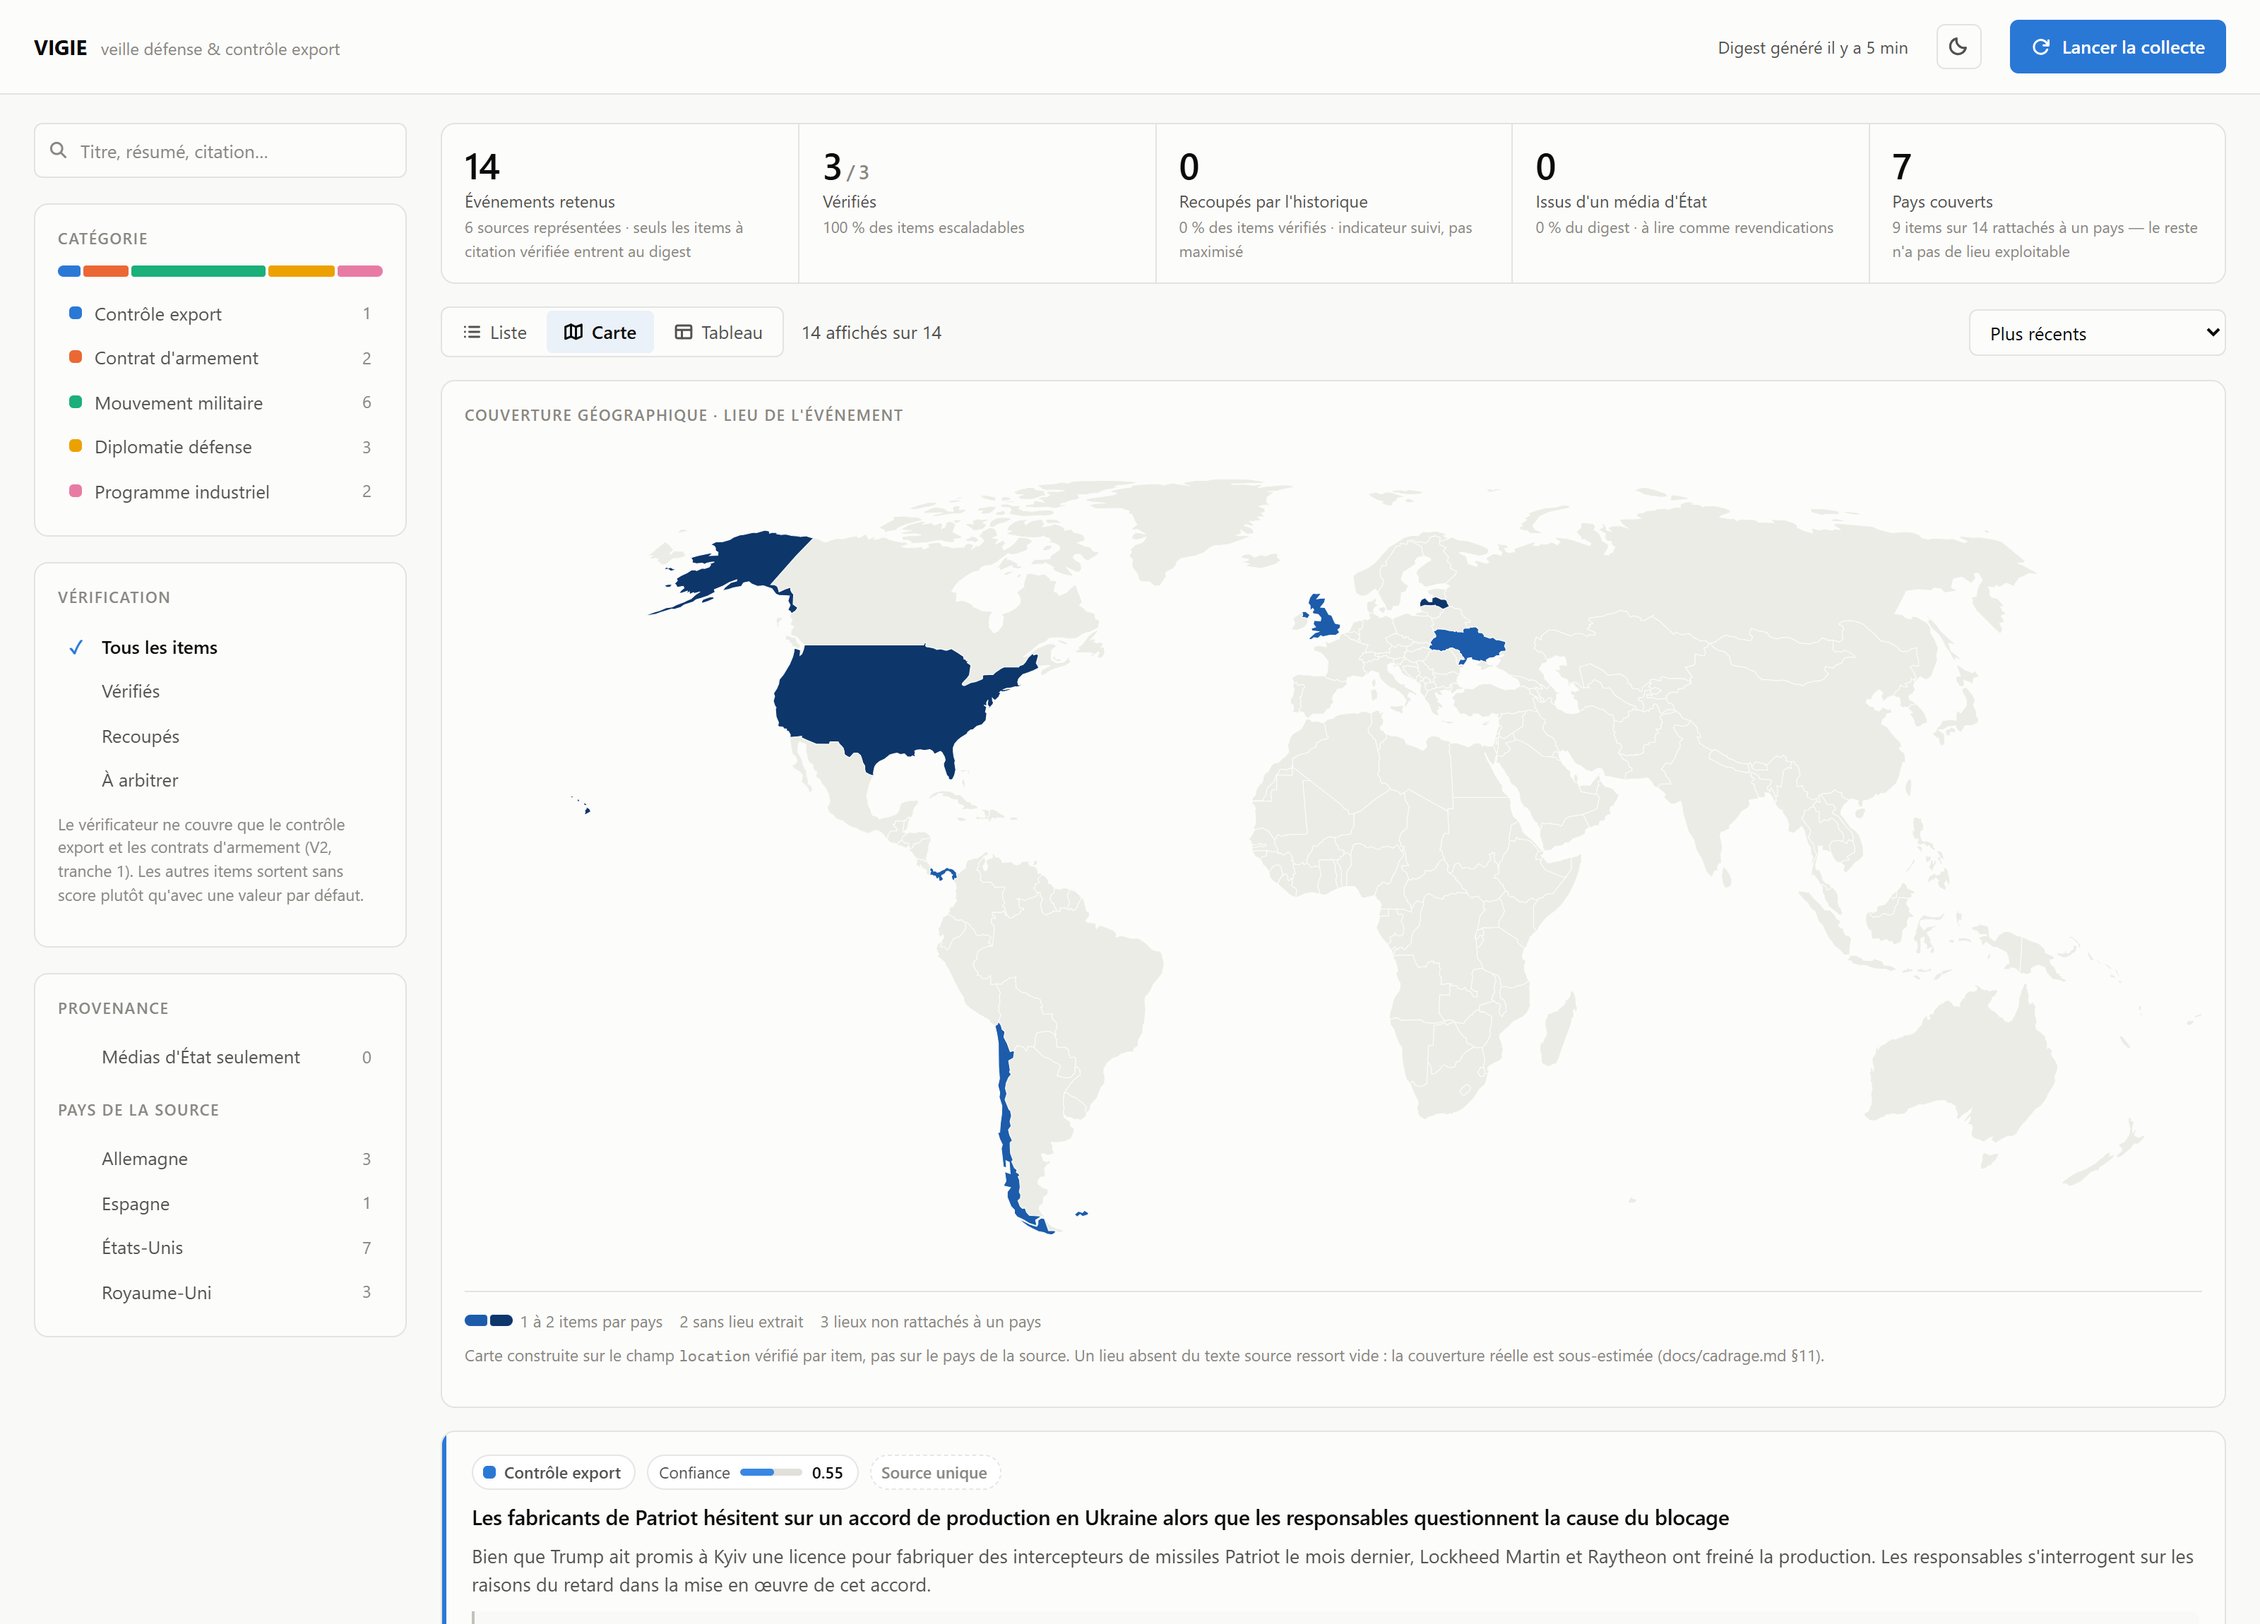
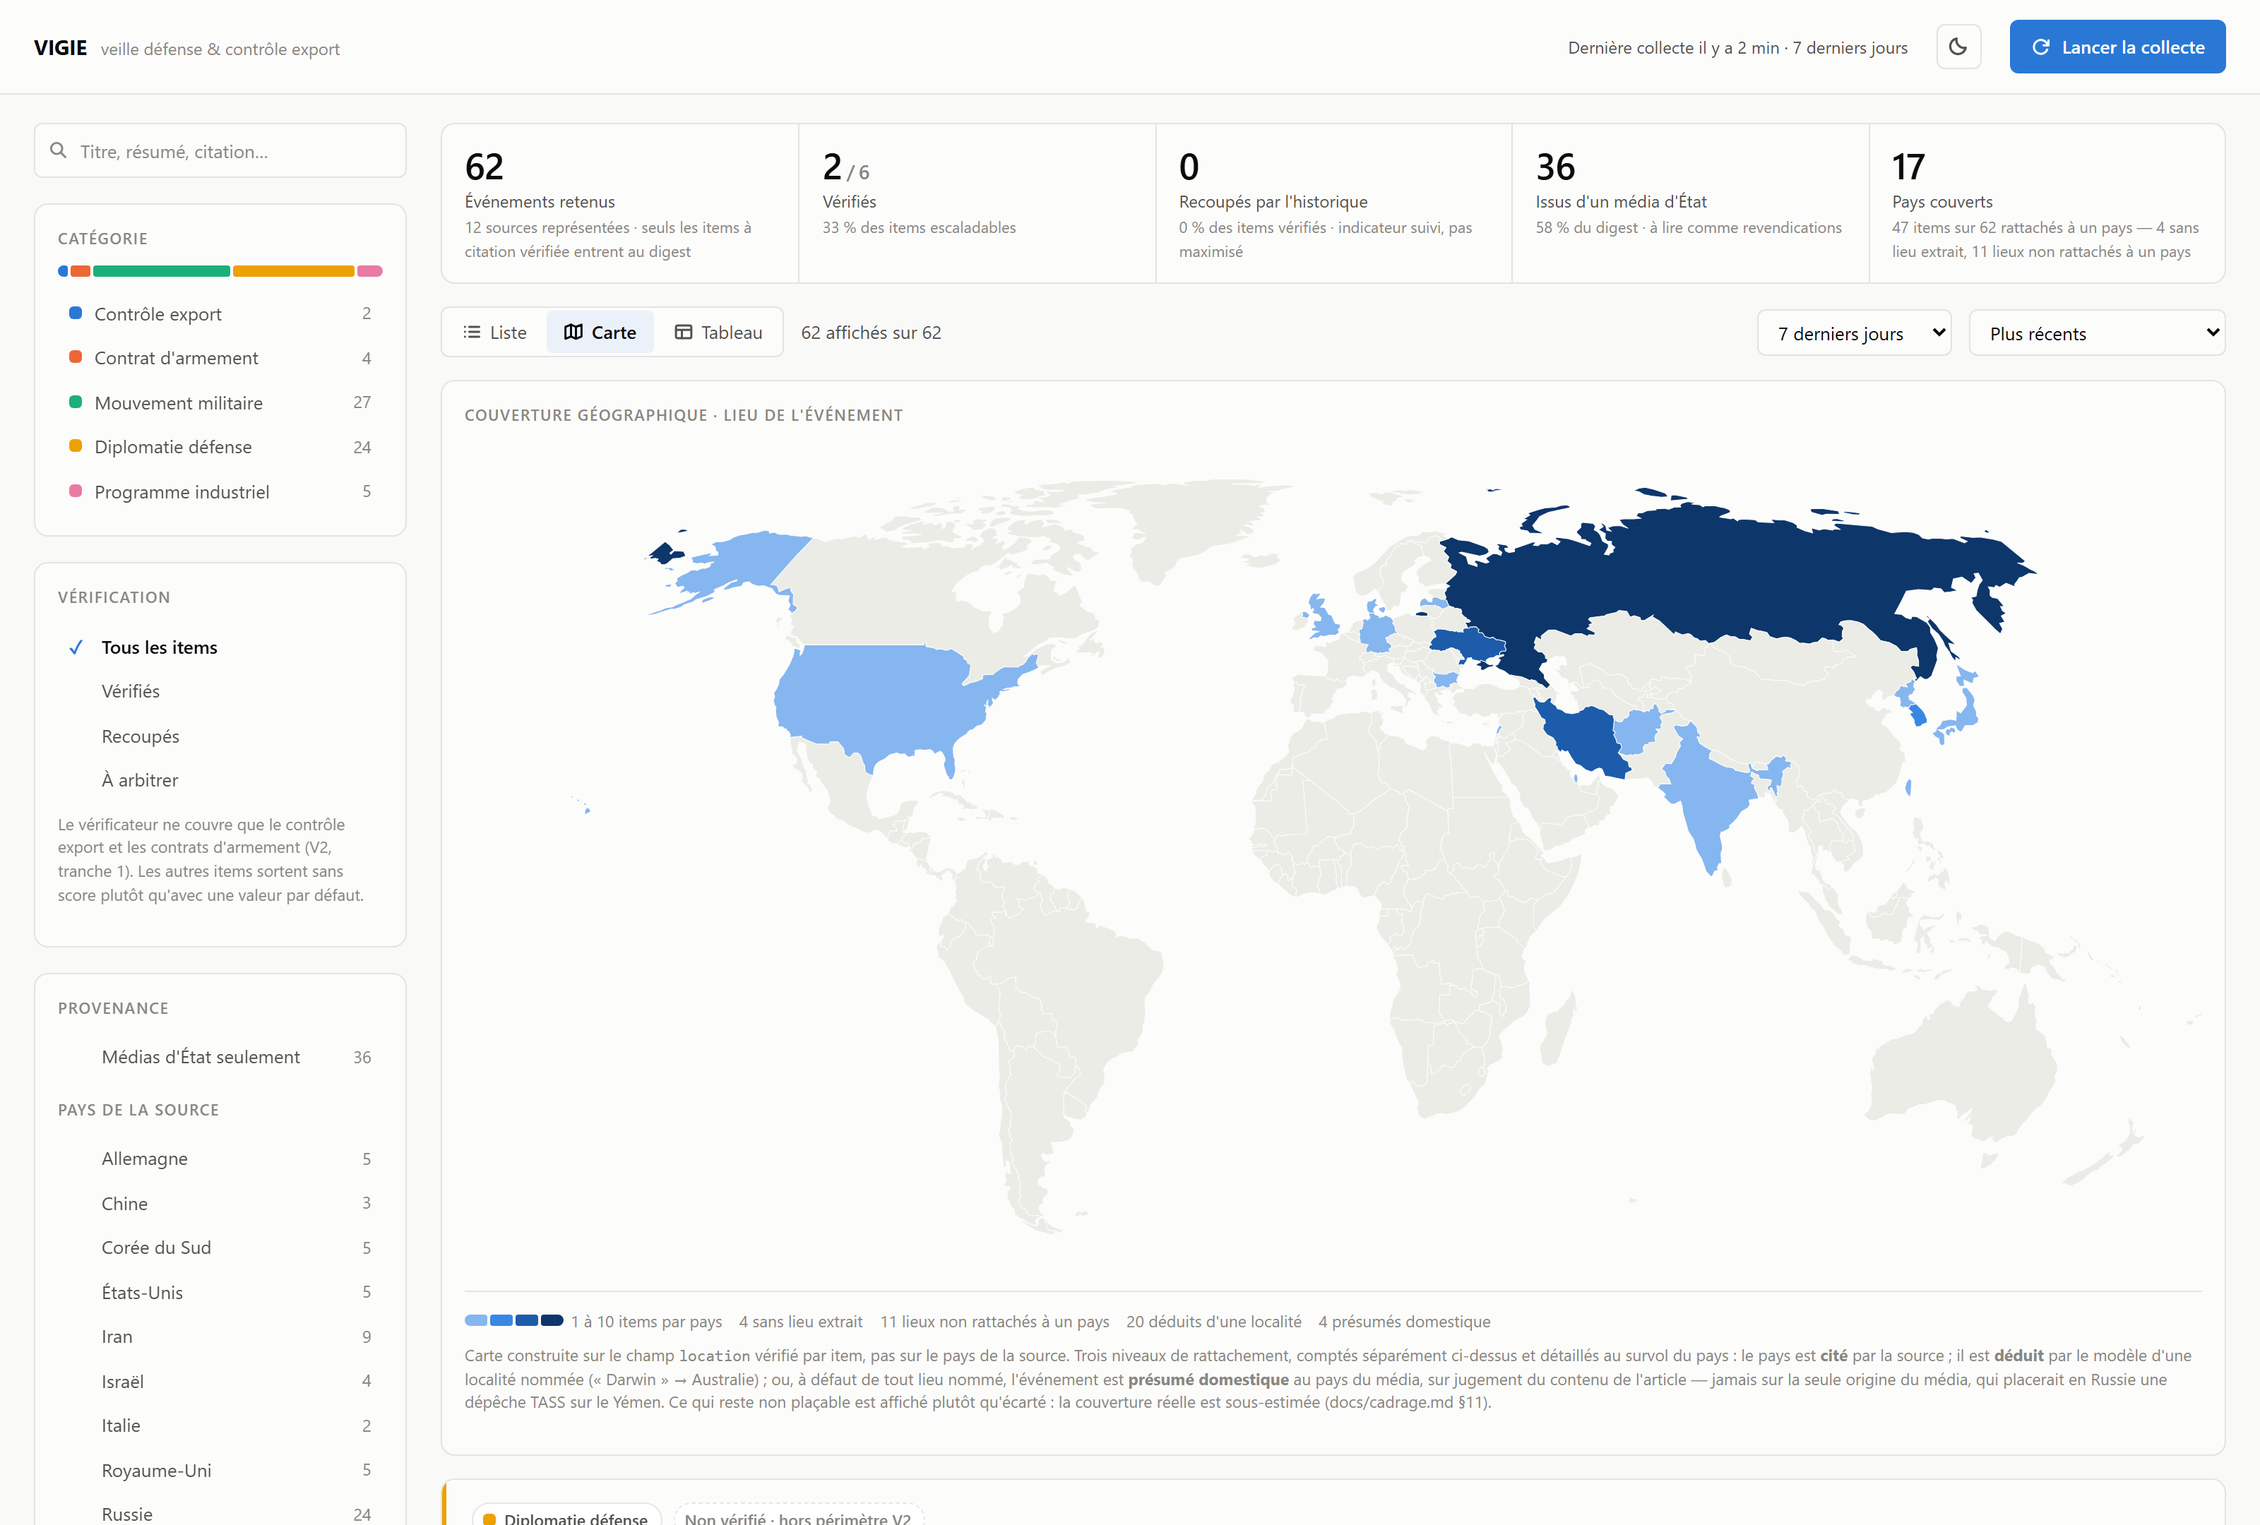
docs: refresh screenshots against a full run of the fixed pipeline
First full run on the merged store: 118 items analysed, 43 kept, digest going
from 19 to 62 items across 12 sources instead of replacing the previous run's
items with its own.

Frame both captures on the viewport rather than the full page — at 62 items the
full-page shot is 28588px tall and unreadable as a README thumbnail.

Fix the list screenshot's alt text, which promised confidence scores on the
visible cards: only 2 of 62 items are scored and none sort to the top. It now
describes what the capture actually shows.

diff --git a/README.md b/README.md
@@ -4,7 +4,7 @@ Agent IA autonome qui collecte, classe et synthétise quotidiennement des source
 
 **Statut** : pipeline V1 fonctionnel de bout en bout (collecte → dédoublonnage → classification → vérification → API → frontend), première tranche du vérificateur V2 livrée, déploiement cloud à venir. Détail dans [Roadmap](#roadmap).
 
-![Digest VIGIE : bandeau d'indicateurs, filtres par catégorie et par état de vérification, fiches d'événement portant le score de confiance et la citation vérifiée](docs/screenshot.png)
+![Digest VIGIE : bandeau d'indicateurs, filtres par catégorie et par état de vérification, fiches d'événement portant la citation vérifiée, la provenance « média d'État » et l'état de vérification explicite](docs/screenshot.png)
 
 Le digest expose les signaux qui engagent la confiance plutôt que la seule liste d'articles : score de confiance du vérificateur, recoupement, provenance « média d'État », citation vérifiée verbatim. Un item hors du périmètre du vérificateur sort sans score plutôt qu'avec un zéro trompeur.
 
